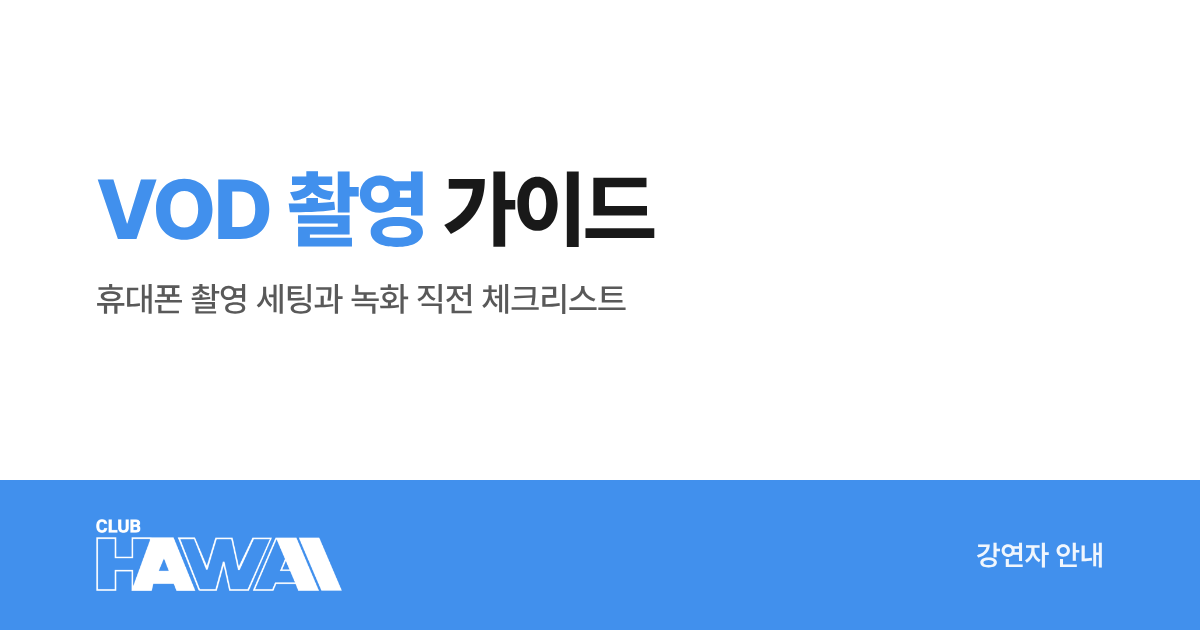
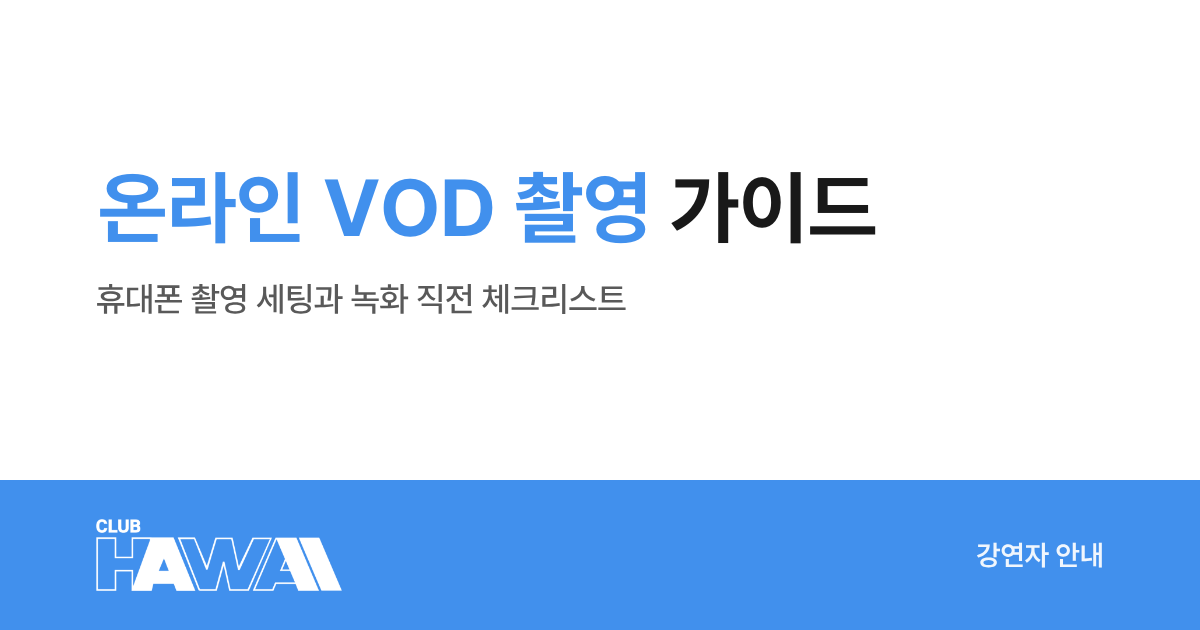
촬영 가이드 제목을 '클럽하와이 온라인 VOD 촬영 가이드'로 변경 (카톡 미리보기 이미지 포함)

Changed region(s): [[0.0617, 0.2714, 0.74, 0.3921]]

diff --git a/shoot.html b/shoot.html
@@ -3,11 +3,11 @@
 <head>
 <meta charset="utf-8">
 <meta name="viewport" content="width=device-width, initial-scale=1">
-<title>클럽하와이 VOD 촬영 가이드</title>
+<title>클럽하와이 온라인 VOD 촬영 가이드</title>
 <meta name="description" content="휴대폰 촬영 세팅과 녹화 직전 체크리스트를 안내드립니다.">
 <meta property="og:type" content="website">
 <meta property="og:site_name" content="클럽하와이">
-<meta property="og:title" content="클럽하와이 VOD 촬영 가이드">
+<meta property="og:title" content="클럽하와이 온라인 VOD 촬영 가이드">
 <meta property="og:description" content="휴대폰 촬영 세팅과 녹화 직전 체크리스트를 안내드립니다.">
 <meta property="og:image" content="https://clubhawaii.github.io/lecturer-guide/og-shoot.png">
 <meta property="og:image:width" content="1200">
@@ -162,7 +162,7 @@ details dd{margin:0;color:var(--sub)}
 <section class="panel">
   <div class="hero">
     <div>
-      <h1>VOD<br>촬영 가이드</h1>
+      <h1>온라인 VOD<br>촬영 가이드</h1>
       <p class="lead">줌 강의는 <b>평소처럼</b> 진행해 주시고,<br>VOD용 영상은 <b>휴대폰으로 별도 촬영</b>해 주시기 바랍니다.</p>
       <a class="btn" href="#prep">준비 체크리스트 <svg class="arrow"><use href="#arr"/></svg></a>
     </div>

diff --git a/index.html b/index.html
@@ -260,7 +260,7 @@ details dd{margin:0;color:var(--sub)}
     <p><b>세팅 장비는 선택 사항입니다.</b> 준비가 어려우시면 하지 않으셔도 됩니다.</p>
     <p><b>촬영 원본 영상은 업로드 링크로 전달 부탁드립니다.</b> 카카오톡으로 전송하면 영상 화질이 저하됩니다.</p>
   </div>
-  <div class="end"><a class="btn" href="shoot.html">촬영 가이드 보기 <svg class="arrow"><use href="#arr"/></svg></a></div>
+  <div class="end"><a class="btn" href="shoot.html">온라인 VOD 촬영 가이드 보기 <svg class="arrow"><use href="#arr"/></svg></a></div>
 </section>
 
 <section class="panel">
